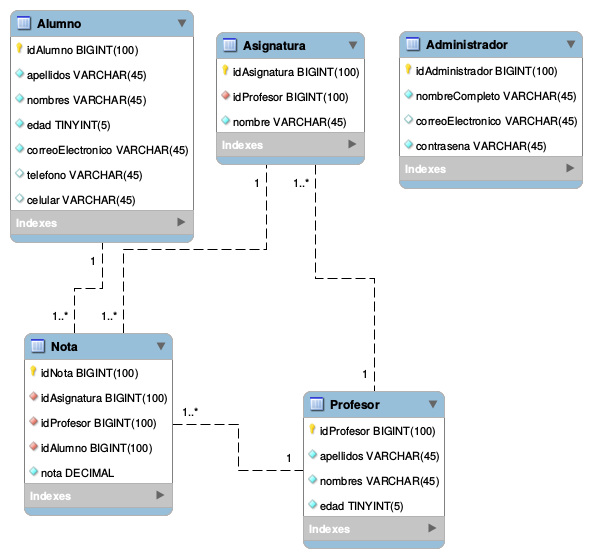
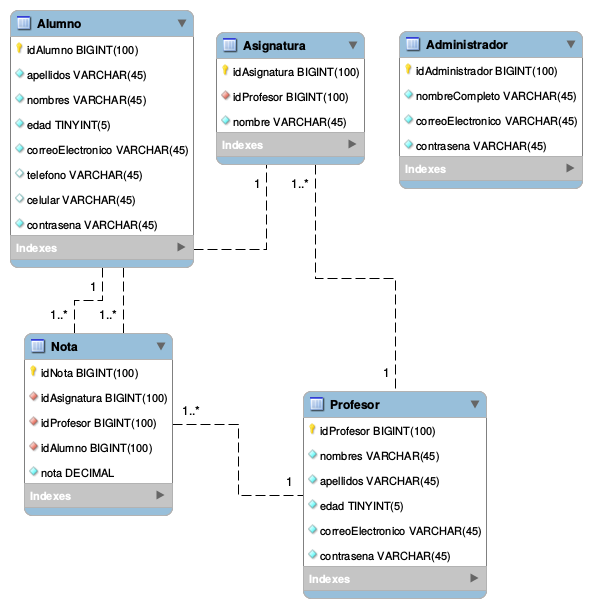
agregado modelo en PHP y MySQL

diff --git a/modelo/alumno.php b/modelo/alumno.php
@@ -1,0 +1,30 @@
+<?php
+
+/**
+ * Clase Alumno
+ */
+class Alumno
+{
+  public $id;
+  public $apellidos;
+  public $nombres;
+  public $edad;
+  public $correoElectronico;
+  public $telefono;
+  public $celular;
+  public $contrasena;
+
+  function __construct($id, $apellidos, $nombres, $edad, $correoElectronico, $telefono, $celular, $contrasena)
+  {
+    $this->id = $id;
+    $this->apellidos = $apellidos;
+    $this->nombres = $nombres;
+    $this->edad = $edad;
+    $this->correoElectronico = $correoElectronico;
+    $this->telefono = $telefono;
+    $this->celular = $celular;
+    $this->contrasena = $contrasena;
+  }
+}
+
+?>

diff --git a/modelo/profesor.php b/modelo/profesor.php
@@ -1,0 +1,26 @@
+<?php
+
+/**
+ * Clase Profesor
+ */
+class Profesor
+{
+  public $id;
+  public $nombres;
+  public $apellidos;
+  public $edad;
+  public $correoElectronico;
+  public $contrasena;
+
+  function __construct($id, $nombres, $apellidos, $edad, $correoElectronico, $contrasena)
+  {
+    $this->id = $id;
+    $this->nombres = $nombres;
+    $this->apellidos = $apellidos;
+    $this->edad = $edad;
+    $this->correoElectronico = $correoElectronico;
+    $this->contrasena = $contrasena;
+  }
+}
+
+?>

diff --git a/modelo/administrador.php b/modelo/administrador.php
@@ -1,0 +1,22 @@
+<?php
+
+/**
+ * Clase administrador
+ */
+class Administrador
+{
+  public $id;
+  public $nombreCompleto;
+  public $correoElectronico;
+  public $contrasena;
+
+  function __construct($id, $nombreCompleto, $correoElectronico, $contrasena)
+  {
+    $this->id = $id;
+    $this->nombreCompleto = $nombreCompleto;
+    $this->correoElectronico = $correoElectronico;
+    $this->contrasena = $contrasena;
+  }
+}
+
+?>

diff --git a/modelo/nota.php b/modelo/nota.php
@@ -1,0 +1,24 @@
+<?php
+
+/**
+ * Clase Nota
+ */
+class Nota
+{
+  public $id;
+  public $idAsignatura;
+  public $idProfesor;
+  public $idAlumno;
+  public $nota;
+
+  function __construct($id, $idAsignatura, $idProfesor, $idAlumno, $nota)
+  {
+    $this->id = $id;
+    $this->idAsignatura = $idAsignatura;
+    $this->idProfesor = $idProfesor;
+    $this->idAlumno = $idAlumno;
+    $this->nota = $nota;
+  }
+}
+
+?>

diff --git a/modelo/asignatura.php b/modelo/asignatura.php
@@ -1,0 +1,20 @@
+<?php
+
+/**
+ * Clase Asignatura
+ */
+class Asignatura
+{
+  public $id;
+  public $idProfesor;
+  public $nombre;
+
+  function __construct($id, $idProfesor, $nombre)
+  {
+    $this->id = $id;
+    $this->idProfesor = $idProfesor;
+    $this->nombre = $nombre;
+  }
+}
+
+?>

diff --git a/coneccion/coneccion.php b/coneccion/coneccion.php
@@ -1,0 +1,6 @@
+<?php
+
+$mysqli = mysqli_connect("localhost", "sistemanotas", "sisnot", "sisnotdb");
+if (mysqli_connect_errno($mysqli)) {
+  echo "Fallo al conectar a MySQL: " . mysqli_connect_error();
+}

diff --git a/index.php b/index.php
@@ -1,0 +1,5 @@
+<?php
+
+include 'modelo/administrador.php';
+
+?>

diff --git a/coneccion/controlador.php b/coneccion/controlador.php
@@ -1,0 +1,5 @@
+<?php
+
+
+
+?>

diff --git a/README.md b/README.md
@@ -4,7 +4,10 @@
 * ~~bower_components~~ **libs:** Antes de hacer algún commit, eliminar la
 carpeta `bower_components`, esta ha sido remplazada por `libs` la
 cuál creará `bower` inmediatamente.
-* **MySQL Workbench:** el archivo `mysql/modelo.mwb` contiene el modelo de la base de datos a usar, y `mysql/modelo.png` contiene una imagen dispuesta a cambios del mismo.
+* **MySQL Workbench:** el archivo `mysql/modelo.mwb` contiene el modelo de la
+base de datos a usar, y `mysql/modelo.png` contiene una imagen dispuesta a
+cambios del mismo.
 * **MySQL:** Antes de proceder con la creación de la base de datos,
 se debe crear un usuario, con acceso `DBManager`; `user:sistemanotas`
-, `password:sisnot`. Usar el archivo `mysql/modelo-sql.sql` para crear la base de datos con sus respectivas tablas.
+, `password:sisnot`. Usar el archivo `mysql/modelo-sql.sql` para crear la base
+de datos con sus respectivas tablas.
